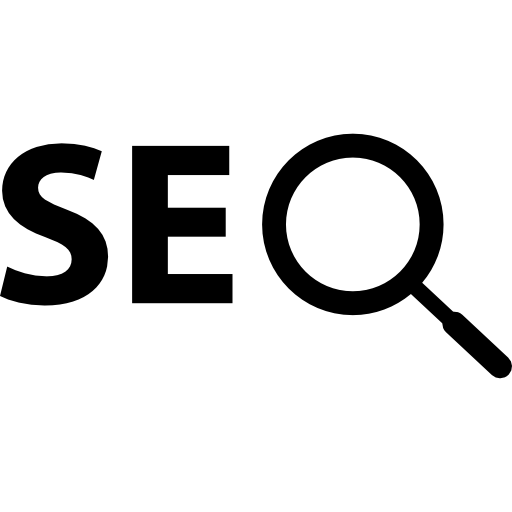
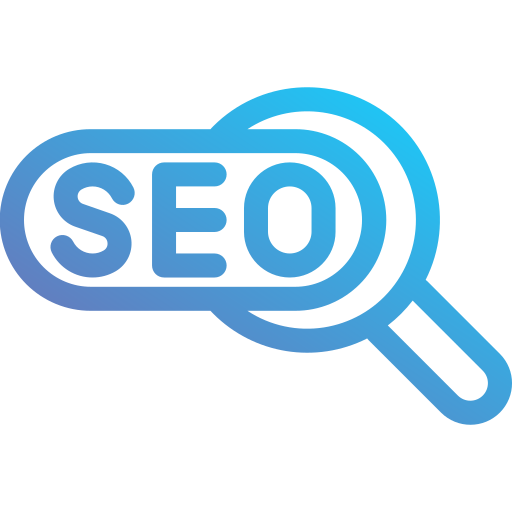
Refactor code structure for improved readability and maintainability

Changed region(s): [[0.0, 0.1562, 1.0, 0.8438]]

diff --git a/src/Components/Portfolio/Portfolio.jsx b/src/Components/Portfolio/Portfolio.jsx
@@ -1,0 +1,31 @@
+import "./Portfolio.css";
+// import Project from "../../asset/Projects/ProjectData";
+
+const Portfolio = () => {
+    return (
+      <div id="Portfolio">
+        <div className="header">Portfolio</div>
+        <div className="project-card">
+          <img
+            className="project-img"
+            src="src/asset/Projects/ProjectImg/CambridgeRental.png"
+            alt=""
+          />
+
+          <img
+            className="project-img"
+            src="src/asset/Projects/ProjectImg/CambridgeRental.png"
+            alt=""
+          />
+
+          <img
+            className="project-img"
+            src="src/asset/Projects/ProjectImg/CambridgeRental.png"
+            alt=""
+          />
+        </div>
+      </div>
+    );
+};
+
+export default Portfolio;

diff --git a/src/Components/Portfolio/Portfolio.css b/src/Components/Portfolio/Portfolio.css
@@ -1,0 +1,29 @@
+#Portfolio {
+  margin: 10rem;
+}
+
+.header{
+    font-size: 3rem;
+    display: flex;
+    justify-self: center;
+    border-bottom: 2px solid white;
+    margin-bottom: 5rem;
+}
+
+.project-card{
+    display: grid;
+    grid-template-columns: repeat(3,1fr);
+}
+
+.project-img{
+    width: 20rem;
+}
+
+@media (max-width: 800px) {
+    .project-card{
+        display: flex;
+        flex-direction: column;
+        gap: 2rem;
+        width: 30rem;
+    }
+}

diff --git a/src/App.jsx b/src/App.jsx
@@ -2,16 +2,18 @@ import Navbar from "./Components/Navbar/Navbar";
 import Header from "./Components/Header/Header";
 import AboutMe from "./Components/AboutMe/Aboutme";
 import Skills from "./Components/Skills/Skills";
+import Portfolio from "./Components/Portfolio/Portfolio";
 
 const App = () => {
   return (
     <>
-    <Navbar />
-    <Header />
-    <AboutMe />
-    <Skills />
+      <Navbar />
+      <Header />
+      <AboutMe />
+      <Skills />
+      <Portfolio />
     </>
-  )
+  );
 };
 
 export default App;

diff --git a/src/asset/Projects/ProjectData.js b/src/asset/Projects/ProjectData.js
@@ -1,0 +1,8 @@
+
+const Project = [
+  {
+    img: "../../asset/Project/ProjectImg/CambridgeRental.png",
+  },
+];
+
+export default Project;

diff --git a/src/Components/Skills/Skills-Card/Skills-Card.css b/src/Components/Skills/Skills-Card/Skills-Card.css
@@ -10,7 +10,12 @@
     flex-direction: row;
 }
 
-img{
+.skills-card:hover{
+    box-shadow: 1px 2px 8px 5px rgba(255, 255, 255, 0.48);
+    border: 3px white;
+}
+
+.skill-img{
     width: 2.5rem;
     margin-right: 4rem;
     margin-left: 0;

diff --git a/src/Components/Skills/Skills.jsx b/src/Components/Skills/Skills.jsx
@@ -7,14 +7,11 @@ const Skills = () => {
     <div id="skills">
       <div className="heading">Skills</div>
       <div className="skills-sec">
-        {/* <SkillsCard id = {id} img={img} skill = {skill} />
-        <SkillsCard />
-        <SkillsCard />
-        <SkillsCard /> */}
 
         {SkillsData.map(({ id, img, skill }) => {
           return (<SkillsCard key={id} img={img} skill={skill} />);
         })}
+        
       </div>
     </div>
   );

diff --git a/src/Components/Navbar/Navbar.jsx b/src/Components/Navbar/Navbar.jsx
@@ -14,7 +14,7 @@ const Navbar = () => {
           <a href="#skills">Skills</a>
         </li>
         <li>
-          <a href="http://">Portfolio</a>
+          <a href="#Portfolio">Portfolio</a>
         </li>
       </ul>
 

diff --git a/src/Components/Skills/Skills-Card/Skills-Card.jsx b/src/Components/Skills/Skills-Card/Skills-Card.jsx
@@ -3,7 +3,7 @@ import "./Skills-Card.css";
 const SkillsCard = ({id, img, skill}) => {
     return (
         <div className="skills-card">
-            <img src={img} alt="" />
+            <img className="skill-img" src={img} alt="" />
             <div className="skill-name">{skill}</div>
         </div>
     );

diff --git a/src/index.css b/src/index.css
@@ -3,6 +3,7 @@ html {
   color: azure;
   margin: 0;
   font-family: Arial, Helvetica, sans-serif;
+  overflow: scroll;
 }
 
 body {